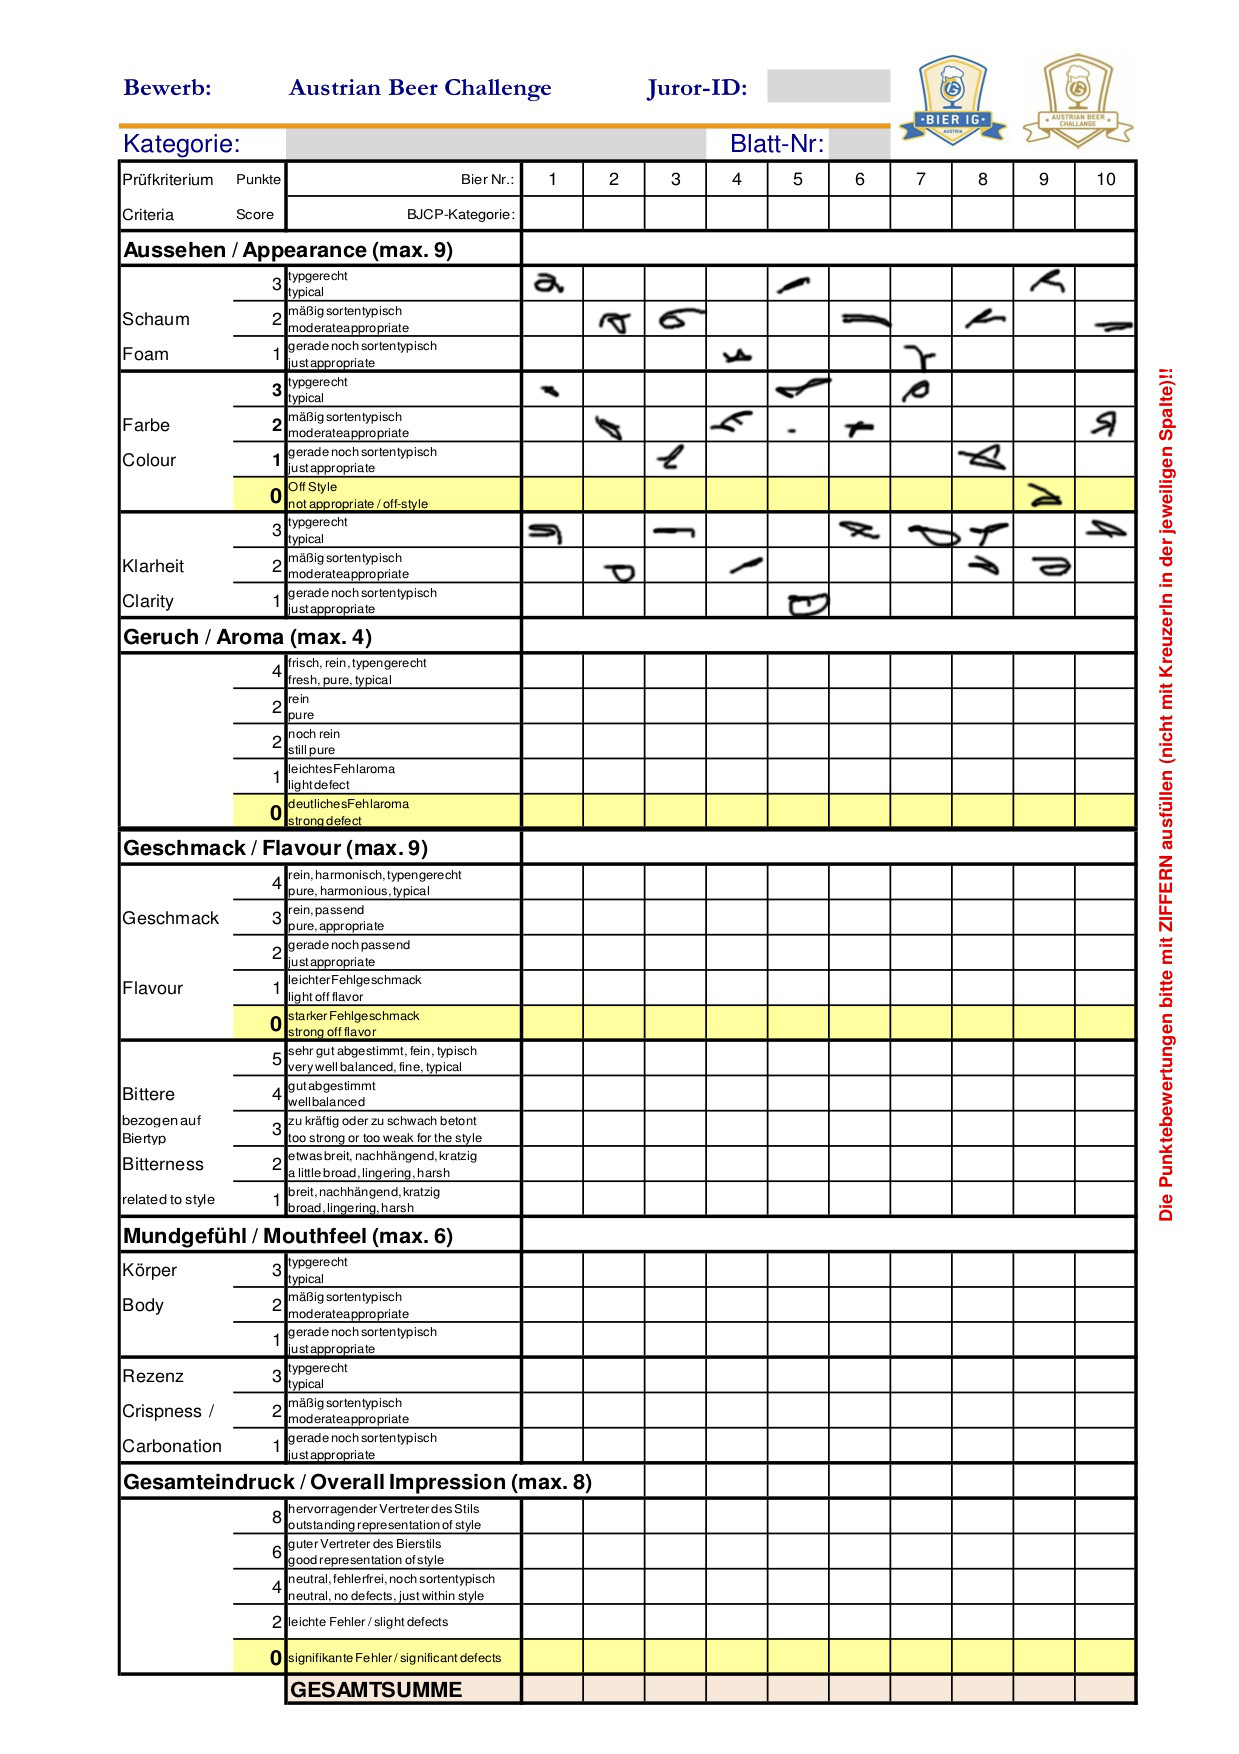
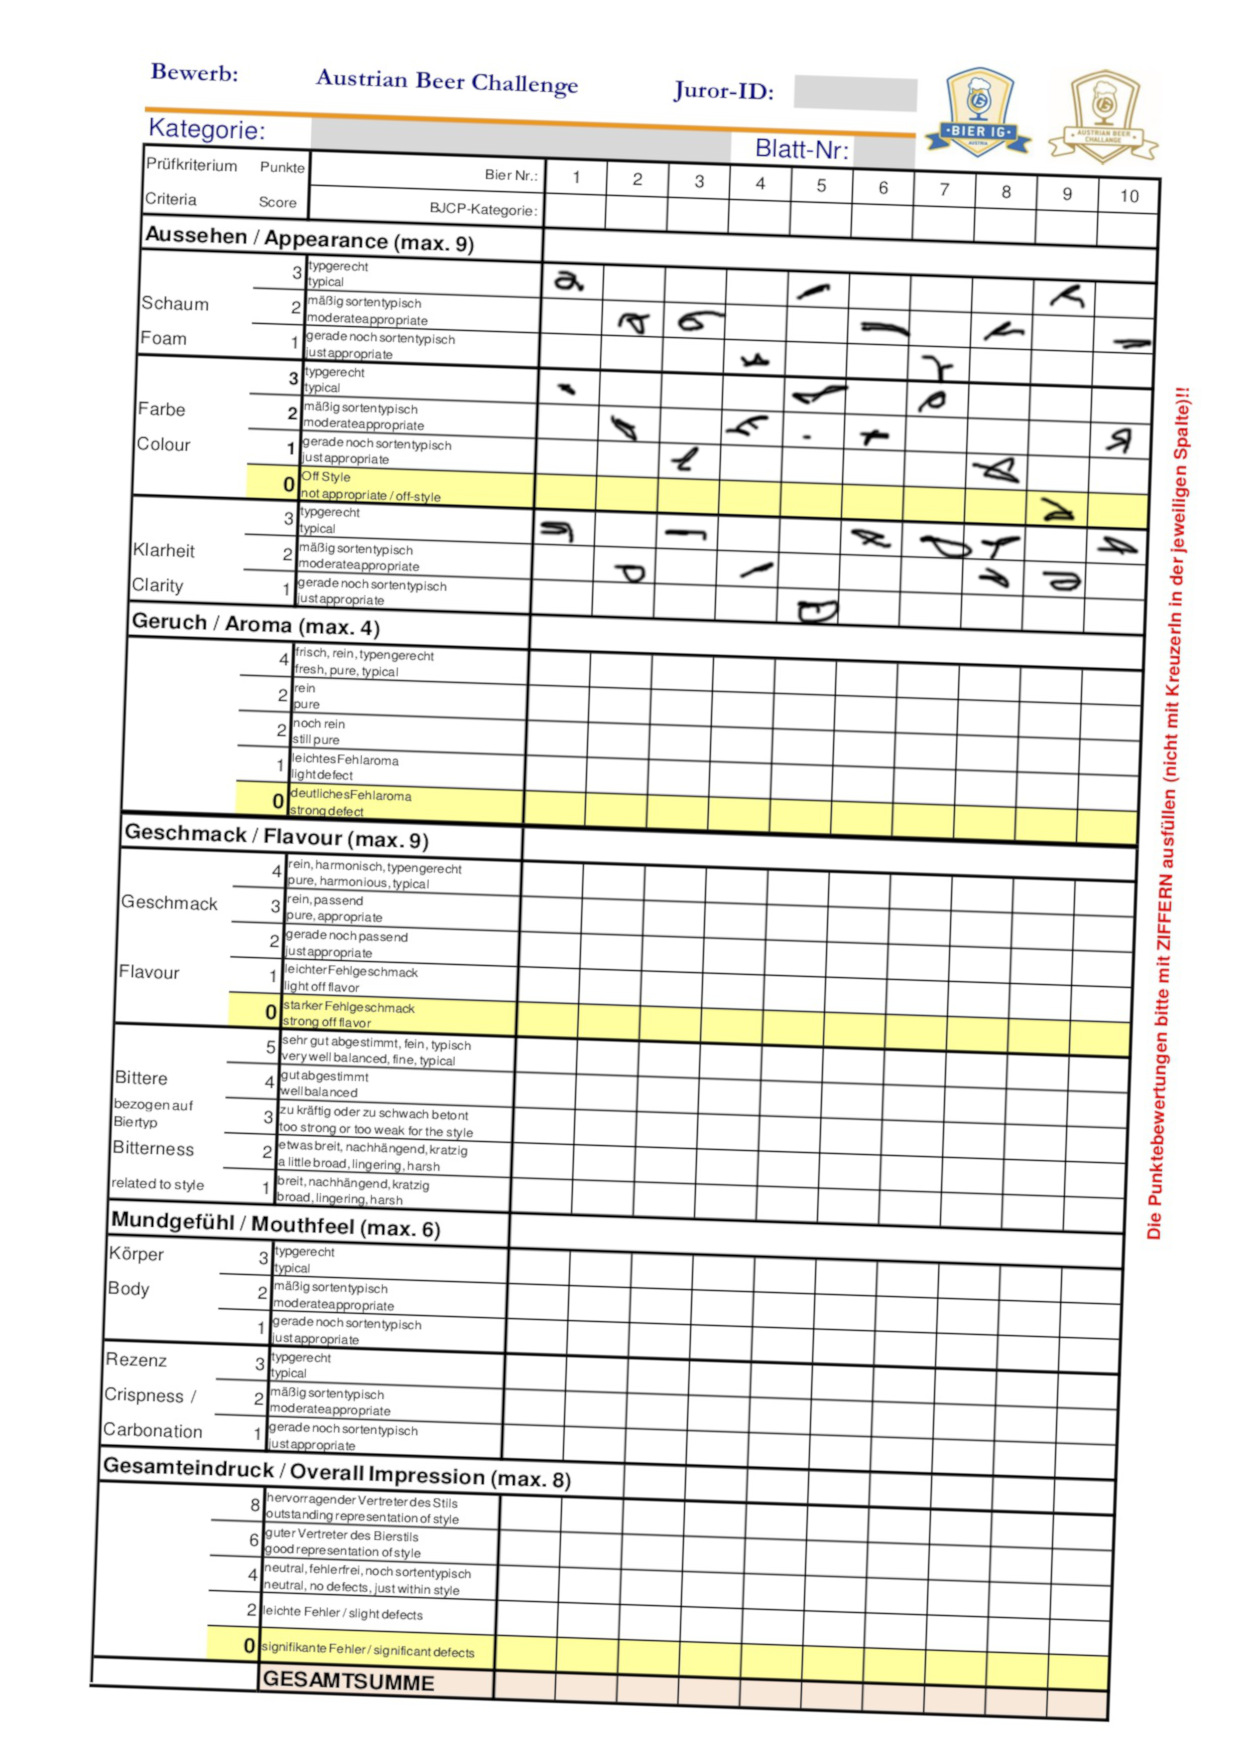
Fine-tuning, result printing

Changed region(s): [[0.0613, 0.0308, 0.9814, 0.9852]]

diff --git a/src/main/java/Scanner.java b/src/main/java/Scanner.java
@@ -1,10 +1,12 @@
 import java.awt.Color;
 import java.awt.Point;
+import java.awt.geom.Point2D;
 import java.io.File;
 import java.net.URISyntaxException;
 import java.net.URL;
 import java.nio.file.Paths;
 import java.util.Optional;
+import java.util.function.ObjIntConsumer;
 
 import marvin.image.MarvinImage;
 import marvin.io.MarvinImageIO;
@@ -12,87 +14,109 @@ import marvin.util.MarvinAttributes;
 import org.marvinproject.image.transform.rotate.Rotate;
 
 import static marvinplugins.MarvinPluginCollection.moravec;
-import static marvinplugins.MarvinPluginCollection.thresholding;
 
 public class Scanner {
-    // We need to adjust the angle because of the detected corners not being mirrored
-    private static final double ANGLE_ADJUSTMENT = 0.7;
+    private static final int CELL_WIDTH = 61;
+    private static final int CELL_HEIGHT = 35;
+    private static final int CELL_WIDTH_LEFT_MARGIN = 10;
+    private static final int CELL_WIDTH_RIGHT_MARGIN = 10;
+    private static final int CELL_HEIGHT_TOP_MARGIN = 14;
+    private static final int CELL_HEIGHT_BOTTOM_MARGIN = 4;
 
     public Scanner() {
         // Load image
-        MarvinImage image = MarvinImageIO.loadImage(getImagePath().get() + "input.jpg");
+        MarvinImage image = MarvinImageIO.loadImage(getImagePath().get() + "input3.jpg");
 
-        // Found corners for rotation analysis
-        int[][] cornernessMap = moravec(image.clone(), image, 5, 500);
-        Point[] boundaries = boundaries(cornernessMap);
+        final double angle = getRotationAngle(image);
+        rotateImage(image, angle);
 
-        // image = showCorners(image, boundaries, 12);
+        // Re-analyze the corners to get the bottom right corner
+        Point[] boundaries = getBoundaries(image);
+        image = drawBoundaries(image, boundaries, 12, Color.magenta);
 
-        // Print rotation angle
-        double angle = (Math.atan2((boundaries[1].y * -1) - (boundaries[0].y * -1), boundaries[1].x - boundaries[0].x) * 180 / Math.PI);
-        angle = angle >= 0 ? angle : angle + 360;
-        System.out.println("Rotation angle:" + angle);
+        final Point bottomRightCorner = boundaries[2];
+        final int dpiFactor = image.getWidth() / 1239; // int division so we round down
+        final int firstCellX = bottomRightCorner.x - 10 * CELL_WIDTH * dpiFactor;
+        final int firstCellY = bottomRightCorner.y - 41 * CELL_HEIGHT * dpiFactor;
+        final BeerScore[] beerScores = new BeerScore[10];
+        for (int i = 1; i <= beerScores.length; i++) {
+            beerScores[i - 1] = new BeerScore(i);
+        }
 
+        analyzeScoreBlock(beerScores, BeerScore.FOAM_SCORES.length, BeerScore::setFoam, firstCellX, firstCellY, dpiFactor, image);
+        analyzeScoreBlock(beerScores, BeerScore.COLOR_SCORES.length, BeerScore::setColor, firstCellX, firstCellY + 3 * CELL_HEIGHT * dpiFactor, dpiFactor, image);
+        analyzeScoreBlock(beerScores, BeerScore.CLARITY_SCORES.length, BeerScore::setClarity, firstCellX, firstCellY + 7 * CELL_HEIGHT * dpiFactor, dpiFactor, image);
+        analyzeScoreBlock(beerScores, BeerScore.AROMA_SCORES.length, BeerScore::setAroma, firstCellX, firstCellY + 11 * CELL_HEIGHT * dpiFactor, dpiFactor, image);
+        analyzeScoreBlock(beerScores, BeerScore.FLAVOR_SCORES.length, BeerScore::setFlavor, firstCellX, firstCellY + 17 * CELL_HEIGHT * dpiFactor, dpiFactor, image);
+        analyzeScoreBlock(beerScores, BeerScore.BITTERNESS_SCORES.length, BeerScore::setBitterness, firstCellX, firstCellY + 22 * CELL_HEIGHT * dpiFactor, dpiFactor, image);
+        analyzeScoreBlock(beerScores, BeerScore.BODY_SCORES.length, BeerScore::setBody, firstCellX, firstCellY + 28 * CELL_HEIGHT * dpiFactor, dpiFactor, image);
+        analyzeScoreBlock(beerScores, BeerScore.CARBONATION_SCORES.length, BeerScore::setCarbonation, firstCellX, firstCellY + 31 * CELL_HEIGHT * dpiFactor, dpiFactor, image);
+        analyzeScoreBlock(beerScores, BeerScore.OVERALL_SCORES.length, BeerScore::setOverall, firstCellX, firstCellY + 35 * CELL_HEIGHT * dpiFactor, dpiFactor, image);
 
+        MarvinImageIO.saveImage(image, getImagePath().get() + "output.jpg");
+
+        for (BeerScore beerScore : beerScores) {
+            System.out.println(beerScore);
+        }
+    }
+
+    private static void rotateImage(MarvinImage image, double angle) {
+        final int adjustedAngle = (int) Math.round(angle);
+        if (adjustedAngle == 0) return;
 
         Rotate rotate = new Rotate();
         rotate.load();
         MarvinAttributes attributes = rotate.getAttributes();
-        final int adjustedAngle = (int)Math.round(angle - ANGLE_ADJUSTMENT);
-        if (adjustedAngle != 0) {
-            attributes.set("rotate", "Other");
-            attributes.set("RotateAngle", adjustedAngle);
-            MarvinImage cloned = image.clone();
-            rotate.process(cloned, image);
-        }
+        attributes.set("rotate", "Other");
+        attributes.set("RotateAngle", adjustedAngle);
 
-        // Convert to black & white
-        thresholding(image.clone(), image, 190);
-
-        MarvinImage test = image.clone();
-
+        MarvinImage cloned = image.clone();
+        rotate.process(cloned, image);
+        // Color the part outside the rotated document with white
         for (int x = 0; x < image.getWidth(); x++) {
             for (int y = 0; y < image.getHeight(); y++) {
-                if (image.getIntColor(x, y) != -1) {
-                    //System.out.println(x + "," + y + ": " + image.getIntColor(x, y));
-                    //test.fillRect(x, y, 1, 1, Color.red);
+                if (image.getIntColor(x, y) >= -1) {
+                    image.setIntColor(x, y, Color.white.getRGB());
                 }
             }
         }
-
-        // Appearance / Foam
-        fillBox(10, 3, 527, 270, test);
-        // Appearance / Color
-        fillBox(10, 4, 527, 270 + 3*35, test);
-        // Appearance / Clarity
-        fillBox(10, 3, 527, 270 + 7*35, test);
-
-        MarvinImageIO.saveImage(test, getImagePath().get() + "output.jpg");
     }
 
-    private void fillBox(int boxCount, int rows, int startX, int startY, MarvinImage image) {
+    private static double getRotationAngle(MarvinImage image) {
+        final Point[] boundaries = getBoundaries(image);
+        final double angle = (Math.atan2((boundaries[3].y * -1) - (boundaries[2].y * -1), boundaries[3].x - boundaries[2].x) * (180 / Math.PI));
+        return -(180 - angle);
+    }
+
+    private static Point[] getBoundaries(MarvinImage image) {
+        // Find corners for rotation analysis
+        int[][] cornernessMap = moravec(image, image, 5, 500);
+        return findBoundaries(cornernessMap);
+    }
+
+    private static void analyzeScoreBlock(final BeerScore[] beerScores, int rows, ObjIntConsumer<BeerScore> setter, int startX, int startY, int dpiFactor, MarvinImage image) {
         int x = startX;
         int y = startY;
 
-        for (int j = 0; j < boxCount; j++) {
-            int [] colors = new int[rows];
+        for (BeerScore beerScore : beerScores) {
+            int[] colors = new int[rows];
             for (int i = 0; i < rows; i++) {
                 // Go through the pixels inside the box
                 int count = 0;
                 int colorSum = 0;
-                for (int k = x; k < x + 50; k++) {
-                    for (int l = y; l < y + 28; l++) {
+                for (int k = x + CELL_WIDTH_LEFT_MARGIN * dpiFactor; k < x + (CELL_WIDTH - CELL_WIDTH_RIGHT_MARGIN) * dpiFactor; k++) {
+                    for (int l = y + CELL_HEIGHT_TOP_MARGIN * dpiFactor; l < y + (CELL_HEIGHT - CELL_HEIGHT_BOTTOM_MARGIN) * dpiFactor; l++) {
                         final int color = image.getIntColor(k, l);
                         if (color != -1) colorSum += color;
                         count++;
+                        image.setIntColor(k, l, Color.blue.getRGB());
                     }
                 }
 
                 if ((colorSum / count) != 0) {
                     colors[i] = Math.abs(colorSum / count);
-                    //image.fillRect(x, y, 50, 28, Color.red);
                 }
-                y += 35;
+                y += CELL_HEIGHT * dpiFactor;
             }
 
             int maxIndex = 0;
@@ -103,15 +127,22 @@ public class Scanner {
                     maxIndex = n;
                 }
             }
+            setter.accept(beerScore, maxIndex);
 
-            image.fillRect(x, startY + (maxIndex * 35), 50, 28, Color.red);
+            image.fillRect(
+                x + CELL_WIDTH_LEFT_MARGIN * dpiFactor,
+                startY + (maxIndex * CELL_HEIGHT * dpiFactor) + CELL_HEIGHT_TOP_MARGIN * dpiFactor,
+                (CELL_WIDTH - CELL_WIDTH_LEFT_MARGIN) * dpiFactor - CELL_WIDTH_RIGHT_MARGIN * dpiFactor,
+                (CELL_HEIGHT - CELL_HEIGHT_TOP_MARGIN) * dpiFactor - CELL_HEIGHT_BOTTOM_MARGIN * dpiFactor,
+                Color.red
+            );
 
             y = startY;
-            x += 61;
+            x += CELL_WIDTH * dpiFactor;
         }
     }
 
-    private Point[] boundaries(int[][] cornernessMap) {
+    private static Point[] findBoundaries(int[][] cornernessMap) {
         Point upLeft = new Point(-1, -1);
         Point upRight = new Point(-1, -1);
         Point bottomLeft = new Point(-1, -1);
@@ -122,22 +153,22 @@ public class Scanner {
         for (int x = 0; x < cornernessMap.length; x++) {
             for (int y = 0; y < cornernessMap[0].length; y++) {
                 if (cornernessMap[x][y] > 0) {
-                    if ((tempDistance = Point.distance(x, y, 0, 0)) < ulDistance) {
+                    if ((tempDistance = Point2D.distance(x, y, 0, 0)) < ulDistance) {
                         upLeft.x = x;
                         upLeft.y = y;
                         ulDistance = tempDistance;
                     }
-                    if ((tempDistance = Point.distance(x, y, cornernessMap.length, 0)) < urDistance) {
+                    if ((tempDistance = Point2D.distance(x, y, cornernessMap.length, 0)) < urDistance) {
                         upRight.x = x;
                         upRight.y = y;
                         urDistance = tempDistance;
                     }
-                    if ((tempDistance = Point.distance(x, y, 0, cornernessMap[0].length)) < blDistance) {
+                    if ((tempDistance = Point2D.distance(x, y, 0, cornernessMap[0].length)) < blDistance) {
                         bottomLeft.x = x;
                         bottomLeft.y = y;
                         blDistance = tempDistance;
                     }
-                    if ((tempDistance = Point.distance(x, y, cornernessMap.length, cornernessMap[0].length)) < brDistance) {
+                    if ((tempDistance = Point2D.distance(x, y, cornernessMap.length, cornernessMap[0].length)) < brDistance) {
                         bottomRight.x = x;
                         bottomRight.y = y;
                         brDistance = tempDistance;
@@ -148,10 +179,10 @@ public class Scanner {
         return new Point[]{upLeft, upRight, bottomRight, bottomLeft};
     }
 
-    private MarvinImage showCorners(MarvinImage image, Point[] points, int rectSize) {
+    private static MarvinImage drawBoundaries(MarvinImage image, Point[] points, int rectSize, Color color) {
         MarvinImage ret = image.clone();
         for (Point p : points) {
-            ret.fillRect(p.x - (rectSize / 2), p.y - (rectSize / 2), rectSize, rectSize, Color.red);
+            ret.fillRect(p.x - (rectSize / 2), p.y - (rectSize / 2), rectSize, rectSize, color);
         }
         return ret;
     }
@@ -160,13 +191,125 @@ public class Scanner {
         new Scanner();
     }
 
-    private Optional<String> getImagePath() {
+    private static Optional<String> getImagePath() {
         try {
-            URL resource = Scanner.class.getResource(File.separator + "input.jpg");
+            URL resource = Scanner.class.getResource(File.separator + "input3.jpg");
             return Optional.of(Paths.get(resource.toURI()).toFile().getParentFile().getAbsolutePath() + File.separator);
         } catch (URISyntaxException e) {
             System.err.println(e);
             return Optional.empty();
         }
+    }
+
+    private static class BeerScore {
+        private static final int[] FOAM_SCORES = {3, 2, 1};
+        private static final int[] COLOR_SCORES = {3, 2, 1, 0};
+        private static final int[] CLARITY_SCORES = {3, 2, 1};
+        private static final int[] AROMA_SCORES = {4, 3, 2, 1, 0};
+        private static final int[] FLAVOR_SCORES = {4, 3, 2, 1, 0};
+        private static final int[] BITTERNESS_SCORES = {5, 4, 3, 2, 1};
+        private static final int[] BODY_SCORES = {3, 2, 1};
+        private static final int[] CARBONATION_SCORES = {3, 2, 1};
+        private static final int[] OVERALL_SCORES = {8, 6, 4, 2, 0};
+
+        final int beerNumber;
+        int foam = 1;
+        int color = 0;
+        int clarity = 1;
+        int aroma = 0;
+        int flavor = 0;
+        int bitterness = 1;
+        int body = 1;
+        int carbonation = 1;
+        int overall = 0;
+
+        public BeerScore(int beerNumber) {
+            this.beerNumber = beerNumber;
+        }
+
+        int getTotal() {
+            return foam + color + clarity + aroma + flavor + bitterness + body + carbonation + overall;
+        }
+
+        void setFoam(int foamIndex) {
+            if (foamIndex < 0 || foamIndex > FOAM_SCORES.length - 1) {
+                throw new IllegalArgumentException("Invalid foam index: " + foamIndex);
+            }
+            this.foam = FOAM_SCORES[foamIndex];
+        }
+
+        void setColor(int colorIndex) {
+            if (colorIndex < 0 || colorIndex > COLOR_SCORES.length - 1) {
+                throw new IllegalArgumentException("Invalid color index: " + colorIndex);
+            }
+            this.color = COLOR_SCORES[colorIndex];
+        }
+
+        void setClarity(int clarityIndex) {
+            if (clarityIndex < 0 || clarityIndex > CLARITY_SCORES.length - 1) {
+                throw new IllegalArgumentException("Invalid clarity index: " + clarityIndex);
+            }
+            this.clarity = CLARITY_SCORES[clarityIndex];
+        }
+
+        void setAroma(int aromaIndex) {
+            if (aromaIndex < 0 || aromaIndex > AROMA_SCORES.length - 1) {
+                throw new IllegalArgumentException("Invalid aroma index: " + aromaIndex);
+            }
+            this.aroma = AROMA_SCORES[aromaIndex];
+        }
+
+        void setFlavor(int flavorIndex) {
+            if (flavorIndex < 0 || flavorIndex > FLAVOR_SCORES.length - 1) {
+                throw new IllegalArgumentException("Invalid flavor index: " + flavorIndex);
+            }
+            this.flavor = FLAVOR_SCORES[flavorIndex];
+        }
+
+        void setBitterness(int bitternessIndex) {
+            if (bitternessIndex < 0 || bitternessIndex > BITTERNESS_SCORES.length - 1) {
+                throw new IllegalArgumentException("Invalid bitterness index: " + bitternessIndex);
+            }
+            this.bitterness = BITTERNESS_SCORES[bitternessIndex];
+        }
+
+        void setBody(int bodyIndex) {
+            if (bodyIndex < 0 || bodyIndex > BODY_SCORES.length - 1) {
+                throw new IllegalArgumentException("Invalid body index: " + bodyIndex);
+            }
+            this.body = BODY_SCORES[bodyIndex];
+        }
+
+        void setCarbonation(int carbonationIndex) {
+            if (carbonationIndex < 0 || carbonationIndex > CARBONATION_SCORES.length - 1) {
+                throw new IllegalArgumentException("Invalid carbonation index: " + carbonationIndex);
+            }
+            this.carbonation = CARBONATION_SCORES[carbonationIndex];
+        }
+
+        void setOverall(int overallIndex) {
+            if (overallIndex < 0 || overallIndex > OVERALL_SCORES.length - 1) {
+                throw new IllegalArgumentException("Invalid overall index: " + overallIndex);
+            }
+            this.overall = OVERALL_SCORES[overallIndex];
+        }
+
+        public String toString() {
+            return String.format(
+                "Beer number %d, Total: %d (foam: %d, color: %d, clarity: %d, aroma: %d, flavor: %d, bitterness: %d, body: %d, carbonation %d, overall %d)",
+                beerNumber,
+                getTotal(),
+                foam,
+                color,
+                clarity,
+                aroma,
+                flavor,
+                bitterness,
+                body,
+                carbonation,
+                overall
+            );
+        }
+
     }
 }
